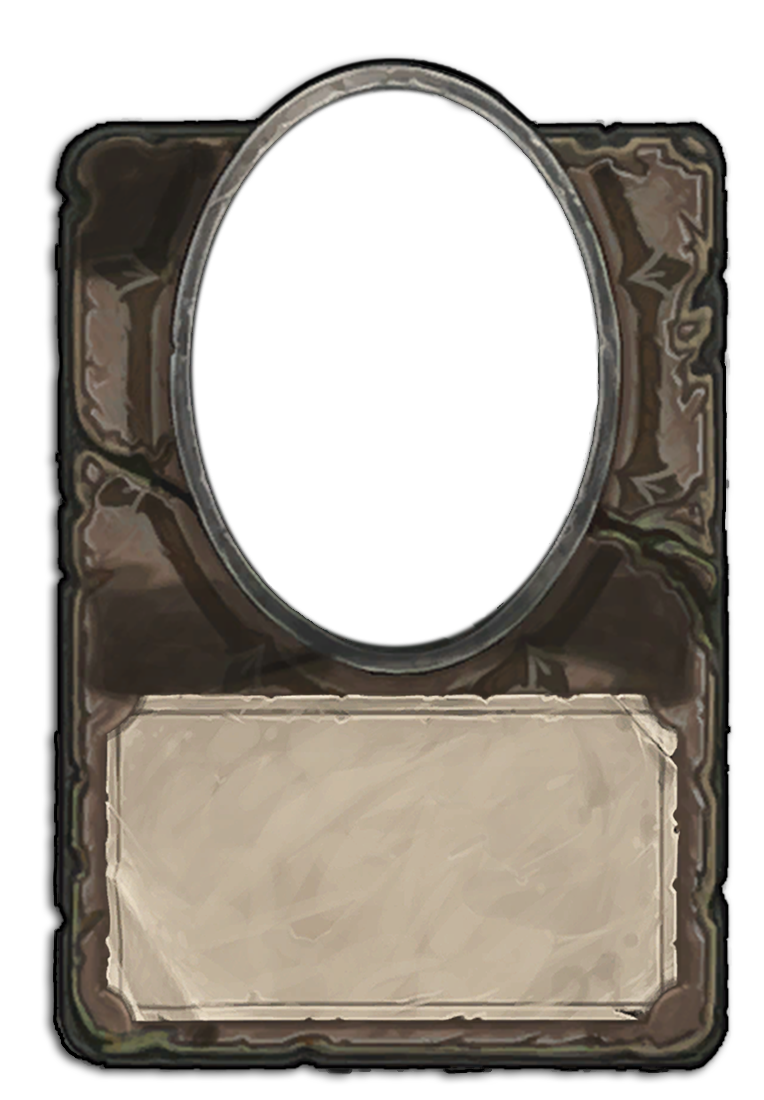
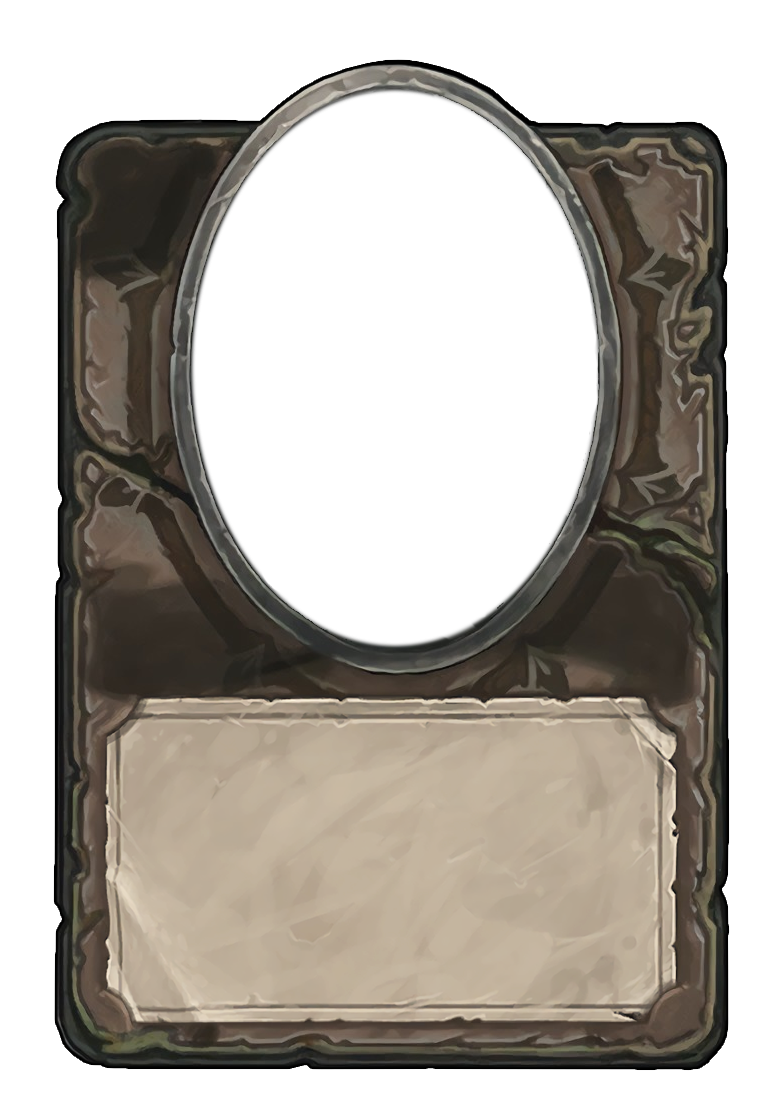
Implemented better quality assets for minion cards

diff --git a/sunwell.js b/sunwell.js
@@ -784,10 +784,10 @@
 
         if (card.type === 'MINION') {
             if (sw.rarity) {
-                ctx.drawImage(assets[sw.rarity], 0, 0, 161, 112, 320 * s, 628 * s, 161 * s, 112 * s);
+                ctx.drawImage(assets[sw.rarity], 0, 0, 146, 146, 326 * s, 607 * s, 146 * s, 146 * s);
             }
 
-            ctx.drawImage(assets.title, 0, 0, 620, 157, 83 * s, 537 * s, 620 * s, 157 * s);
+            ctx.drawImage(assets.title, 0, 0, 608, 144, 94 * s, 546 * s, 608 * s, 144 * s);
 
             if (card.race) {
                 ctx.drawImage(assets.race, 0, 0, 529, 106, 125 * s, 937 * s, 529 * s, 106 * s);
